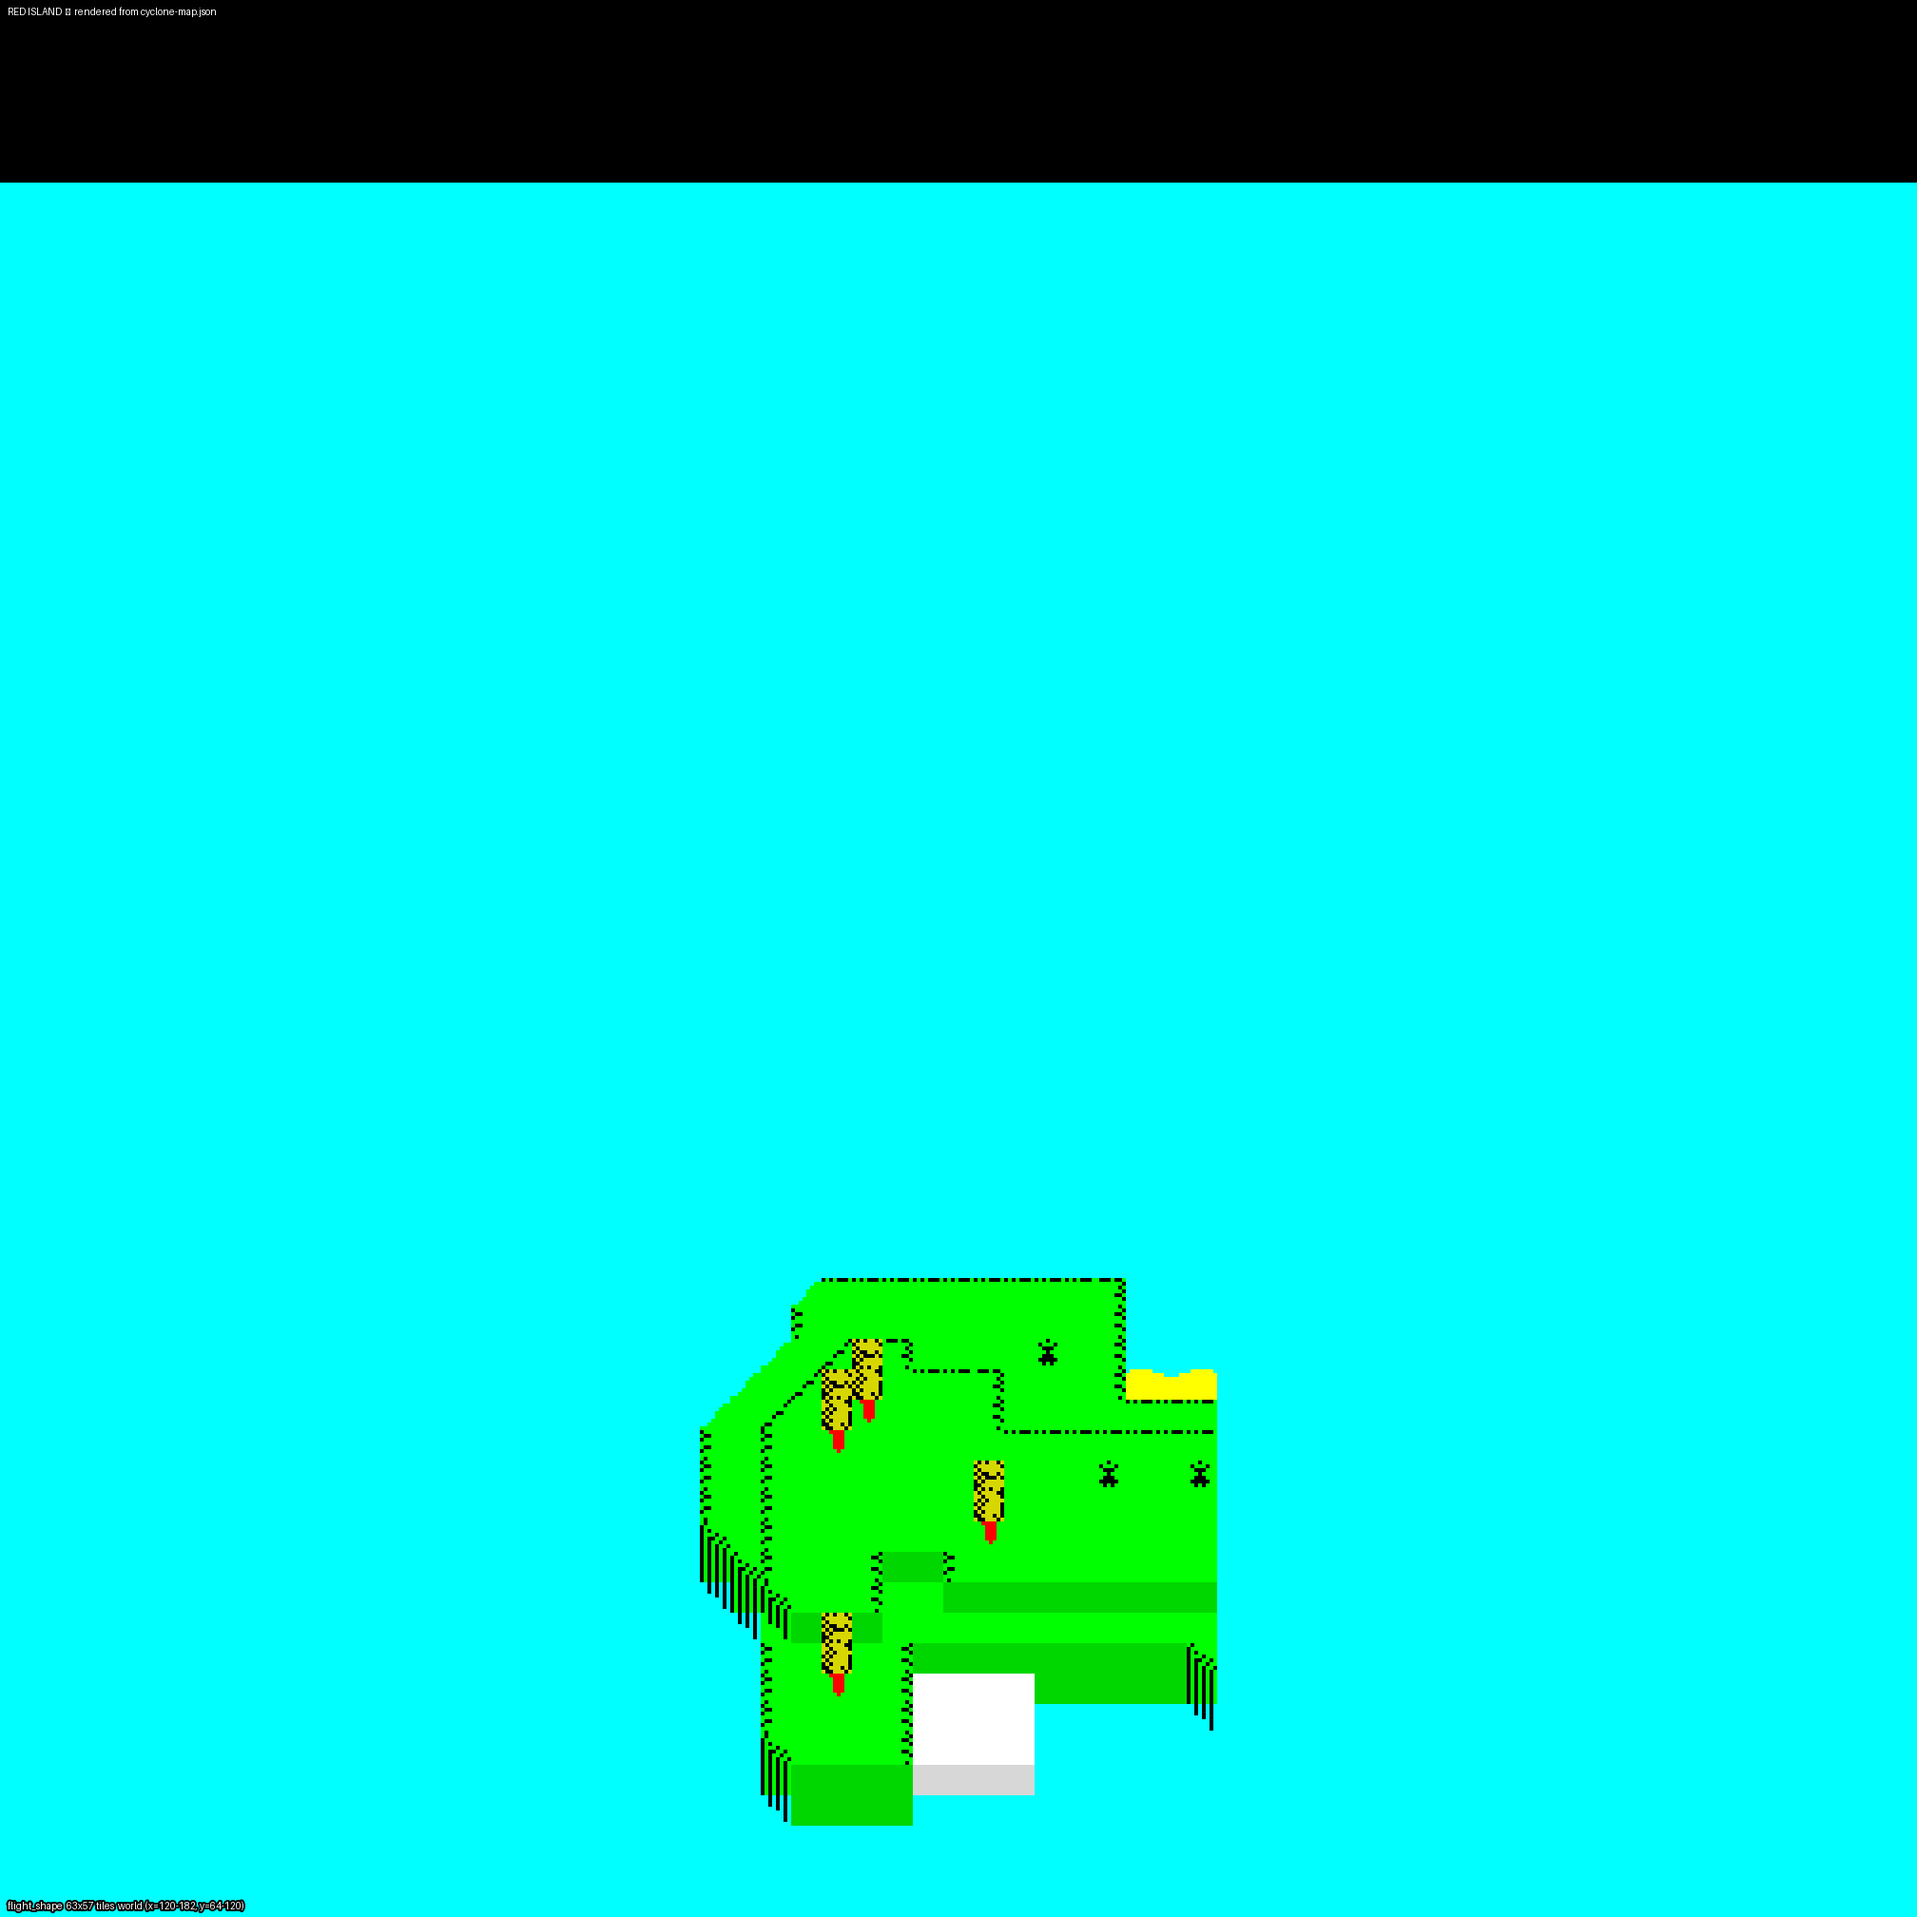
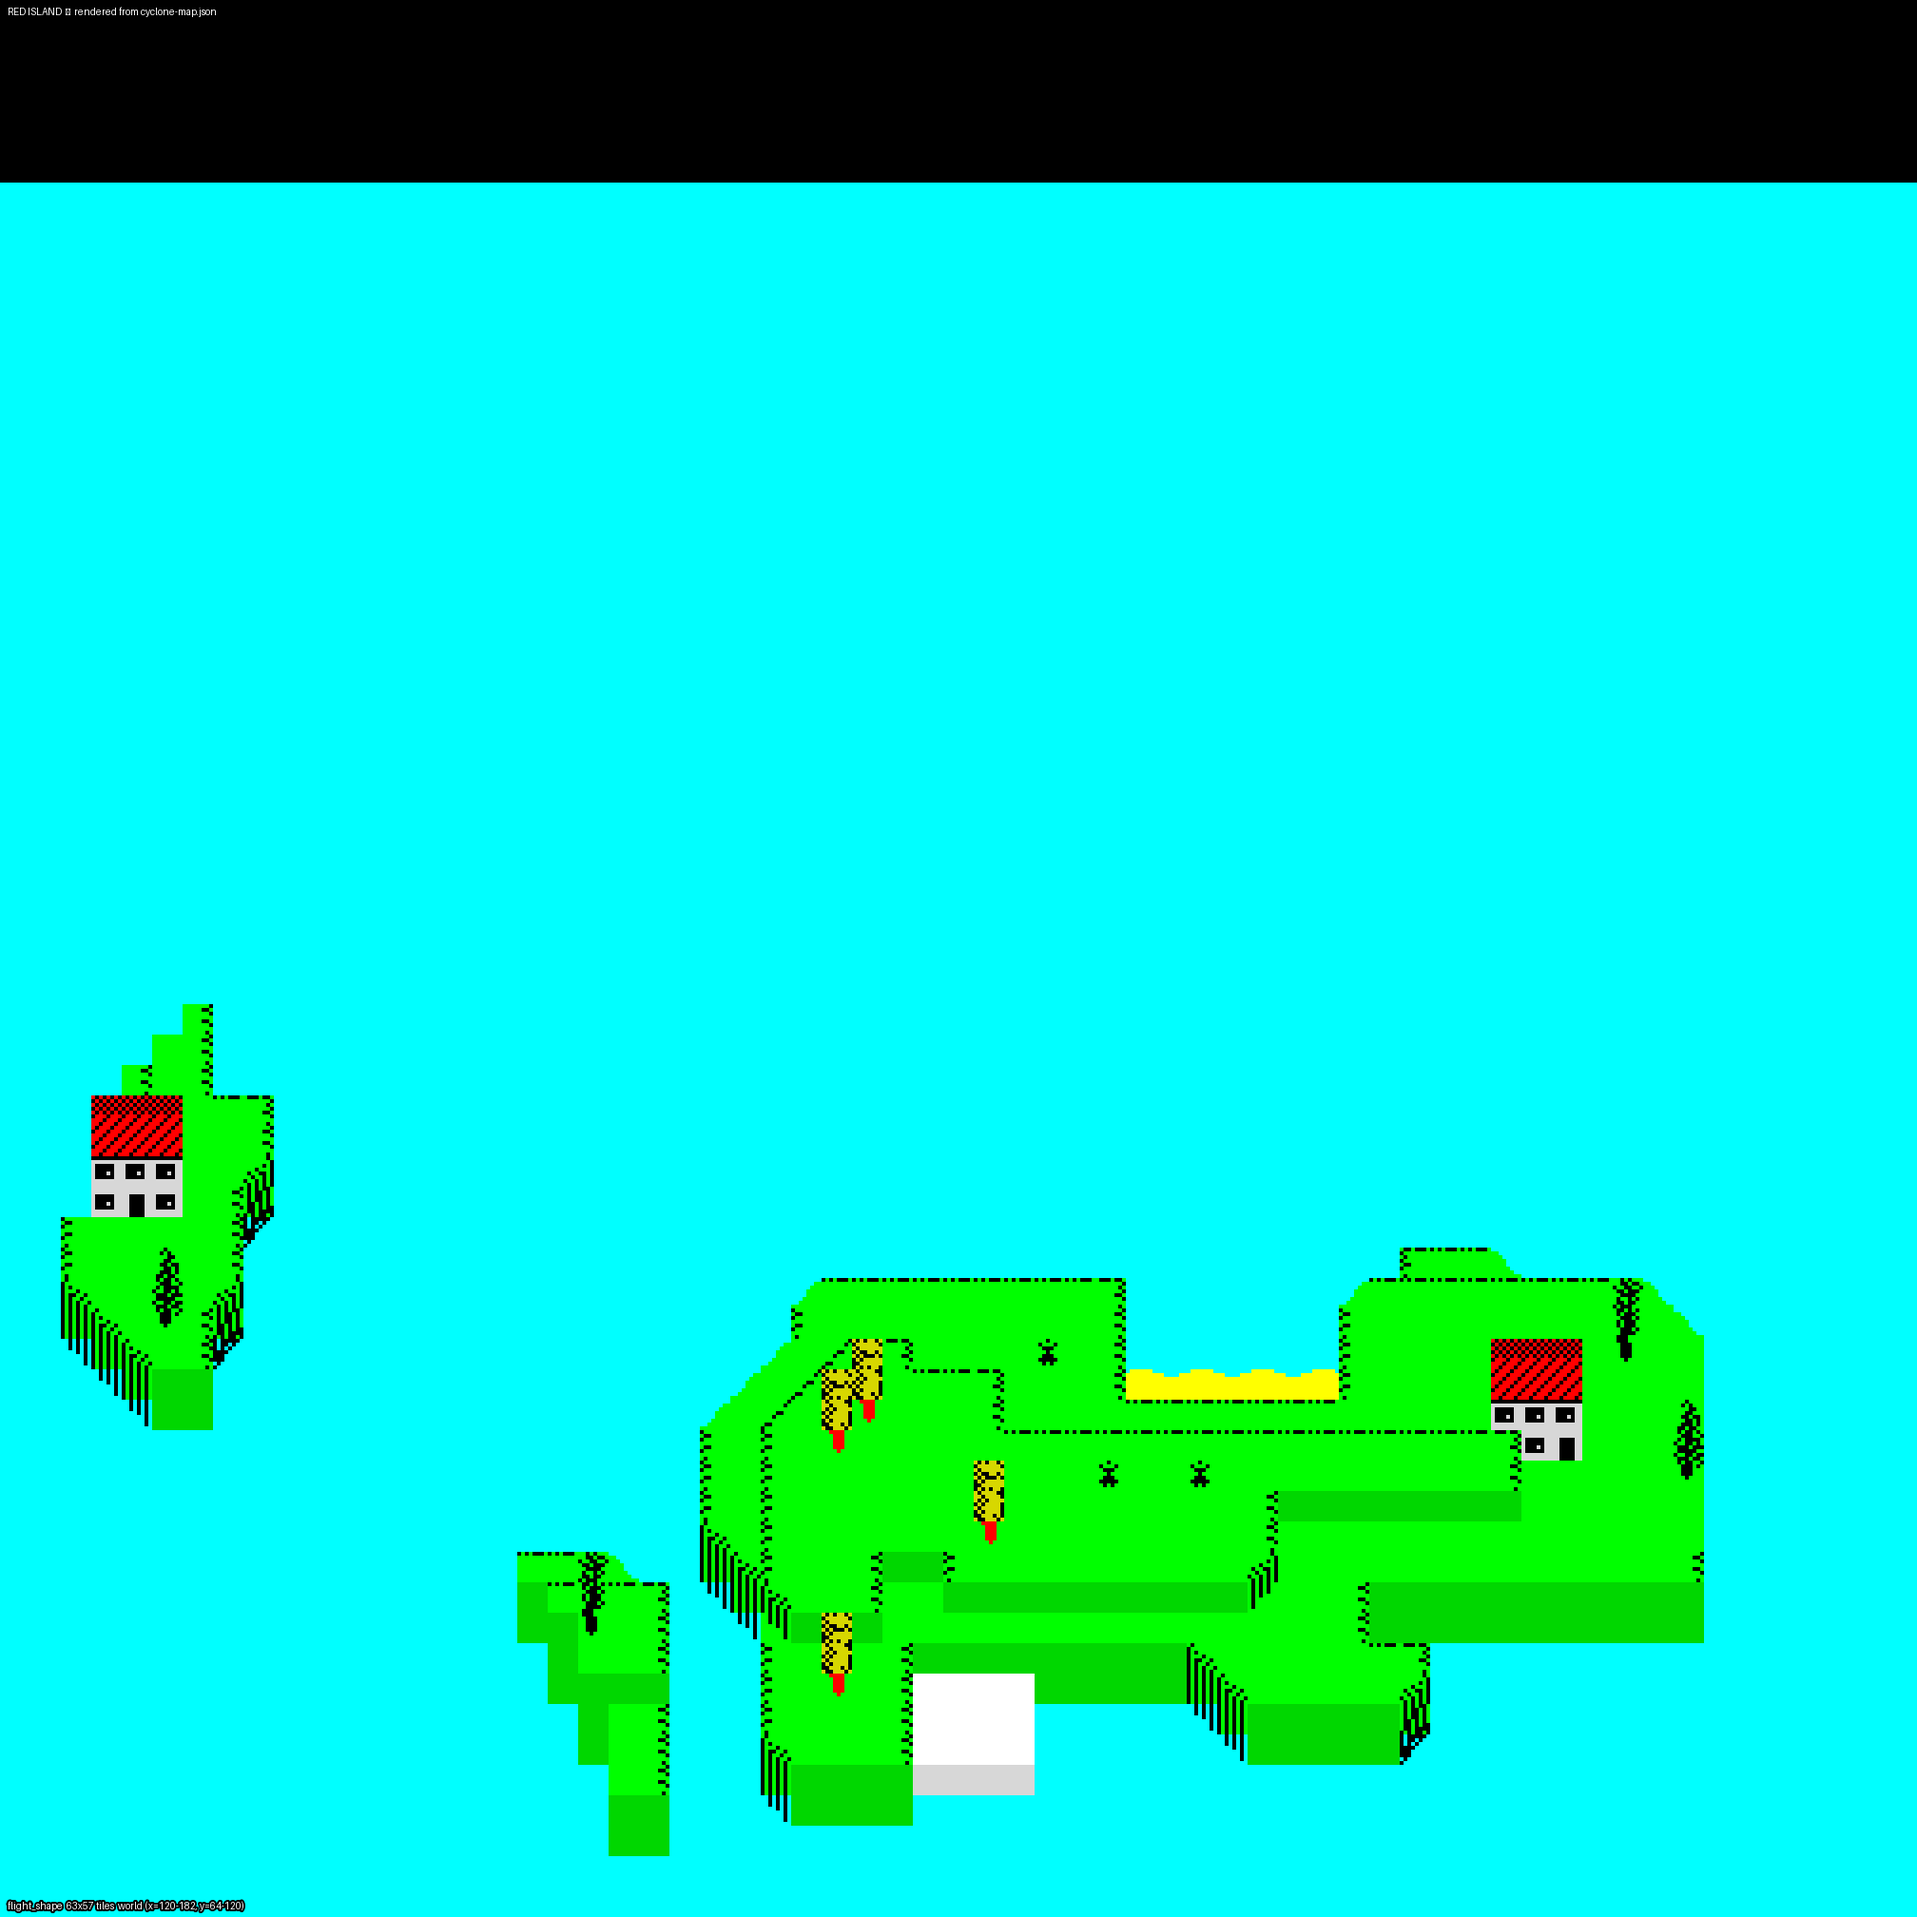
Owner = closest claimant by distance to its world centre
The previous foreign-address mask cropped real island data: any cell
whose address was also reachable by another island got zeroed, but most
of those addresses are uniquely owned by ONE island even if a neighbour
COULD reach them — the byte was placed for one island's terrain only.

Switch to a single owner per address, decided by which claimant sits
closest to its own world-bounds centre. Real terrain is densest at the
island's centre, so the closer claimant is overwhelmingly the one for
which the byte was placed. Each cell renders only when this island is
the owner; otherwise mask as 0.

Effect: BANANA (and the other shared-page islands — GILLIGANS, GIANTS,
FORTE, RED, KOKOLA, SKEG, LUKELAND, ENTERPRISE) now extend properly to
the right side of their world bounds. The bleed-through cells whose
shared address was much more central to a NEIGHBOUR (e.g. GILLIGANS at
its own centre but at the far margin of BANANA) still get masked — so
no neighbour fragments leak in.

- tools/extract_map.py: precompute an owner_map keyed by address using
  squared-distance to each claimant's world centre, then render each
  island's cell only if it owns the address.
- All 14 island PNGs and cyclone-world-3d regenerated.

https://claude.ai/code/session_01Tozr6Lvp71ghtrHRkepSwj

Changed region(s): [[0.625, 0.625, 0.9062, 0.9375], [0.0312, 0.5, 0.1562, 0.75], [0.25, 0.8125, 0.375, 0.9688]]

diff --git a/tools/extract_map.py b/tools/extract_map.py
@@ -178,7 +178,41 @@ def decode_navmap_sprite(ram: bytes, shape_base: int, width: int, height: int) -
     return rows
 
 
-def extract_flight_shape(ram: bytes, rec: bytes, all_records: list) -> dict:
+def _build_owner_map(all_records: list) -> dict:
+    """Map each in-RAM shape address to the index of the island that owns it.
+
+    Multiple islands' read mappings can reach the same address — they share
+    memory pages — but the byte at that address was placed for ONE island's
+    terrain. We don't know the loader's tie-break, so use a geometric
+    heuristic: the owner is whichever island's claim sits closest to its own
+    world-bounds centre. Real terrain is densest near the island's centre,
+    so the closer claimant is overwhelmingly likely to be the one for which
+    the byte was placed.
+    """
+    owner = {}
+    for idx, rec in enumerate(all_records):
+        sb = rec[0x0A] | (rec[0x0B] << 8)
+        x0, y0 = rec[0x06], rec[0x08]
+        xmin, xmax = rec[0x02], rec[0x03]
+        ymin, ymax = rec[0x04], rec[0x05]
+        xmid = (xmin + xmax) / 2
+        ymid = (ymin + ymax) / 2
+        for y in range(ymin, ymax + 1):
+            yo = (y - y0) & 0xFF
+            base = (sb + yo * 128) & 0xFFFF
+            dy = (y - ymid) ** 2
+            for x in range(xmin, xmax + 1):
+                xo = (x - x0) & 0xFF
+                addr = (base + xo) & 0xFFFF
+                d = (x - xmid) ** 2 + dy
+                prev = owner.get(addr)
+                if prev is None or d < prev[1]:
+                    owner[addr] = (idx, d)
+    return {a: i for a, (i, _) in owner.items()}
+
+
+def extract_flight_shape(ram: bytes, rec_idx: int, all_records: list,
+                         owner_map: dict) -> dict:
     """Extract the 2D flight-shape field for one island.
 
     The flight projector reads the tile for world (X, Y) at:
@@ -189,44 +223,23 @@ def extract_flight_shape(ram: bytes, rec: bytes, all_records: list) -> dict:
     Many islands share a memory page (BANANA, GILLIGANS and GIANTS GATEWAY
     all live in $9300+ at disjoint inner offsets), so a naive sweep across
     one island's full world rectangle reads bytes that ANOTHER island
-    placed for ITS terrain. To strip that bleed-through we mask out any
-    cell whose address is also reachable by some (X', Y') inside another
-    island's world bounds — those bytes belong to a neighbour and would
-    show up as fragments of foreign coastlines on this island's render.
+    placed for ITS terrain. We mask any cell whose address is owned by a
+    different island per `owner_map` (closest claimant by distance to the
+    island's world-bounds centre wins). Reads that wrap below $9300 get
+    masked too — they land in the Spectrum's display file and would paint
+    screen pixels onto the island.
     """
     def get(addr):
         a = addr & 0xFFFF
         return ram[a - 0x4000] if 0x4000 <= a else 0
 
+    rec = all_records[rec_idx]
     shape_base = rec[0x0A] | (rec[0x0B] << 8)
-    x_origin = rec[0x06]                 # IX+$06: subtracted from helX
-    y_origin = rec[0x08]                 # IX+$08: subtracted from helY
-    x_min, x_max = rec[0x02], rec[0x03]  # world bounds (helicopter range)
+    x_origin = rec[0x06]
+    y_origin = rec[0x08]
+    x_min, x_max = rec[0x02], rec[0x03]
     y_min, y_max = rec[0x04], rec[0x05]
 
-    # Build the set of addresses every OTHER island can reach inside its
-    # own world bounds — same formula, applied to the other 13 records.
-    foreign = set()
-    for other in all_records:
-        if other is rec:
-            continue
-        o_base = other[0x0A] | (other[0x0B] << 8)
-        o_x0 = other[0x06]
-        o_y0 = other[0x08]
-        ox_min, ox_max = other[0x02], other[0x03]
-        oy_min, oy_max = other[0x04], other[0x05]
-        for oy in range(oy_min, oy_max + 1):
-            yo = (oy - o_y0) & 0xFF
-            base = (o_base + yo * 128) & 0xFFFF
-            for ox in range(ox_min, ox_max + 1):
-                xo = (ox - o_x0) & 0xFF
-                foreign.add((base + xo) & 0xFFFF)
-
-    # 16-bit addr arithmetic wraps: at the top edge of world Y, y_off=-28
-    # becomes 228 (8-bit unsigned), so $CF80 + 228*128 wraps to $4180 —
-    # inside the Spectrum's display file. Reading those bytes would paint
-    # screen pixels onto the island. Mask any read that lands below the
-    # shape data region's start ($9300).
     SHAPE_LO = 0x9300
 
     rows = []
@@ -236,7 +249,7 @@ def extract_flight_shape(ram: bytes, rec: bytes, all_records: list) -> dict:
         for x in range(x_min, x_max + 1):
             x_off = (x - x_origin) & 0xFF
             addr = (shape_base + y_off * 128 + x_off) & 0xFFFF
-            if addr < SHAPE_LO or addr in foreign:
+            if addr < SHAPE_LO or owner_map.get(addr) != rec_idx:
                 row.append(0)
             else:
                 row.append(get(addr))
@@ -275,6 +288,7 @@ def extract(snapshot_path: str) -> dict:
 
     all_records = [at(MASTER_TABLE + i * RECORD_SIZE, RECORD_SIZE)
                    for i in range(RECORD_COUNT)]
+    owner_map = _build_owner_map(all_records)
 
     islands = []
     for i in range(RECORD_COUNT):
@@ -293,7 +307,7 @@ def extract(snapshot_path: str) -> dict:
         navmap_sprite = decode_navmap_sprite(ram, shape_base, navmap_w, navmap_h)
         navmap_sprite_addr = (shape_base + 0x0102) & 0xFFFF
 
-        flight_shape = extract_flight_shape(ram, rec, all_records)
+        flight_shape = extract_flight_shape(ram, i, all_records, owner_map)
 
         islands.append({
             "index": i,
